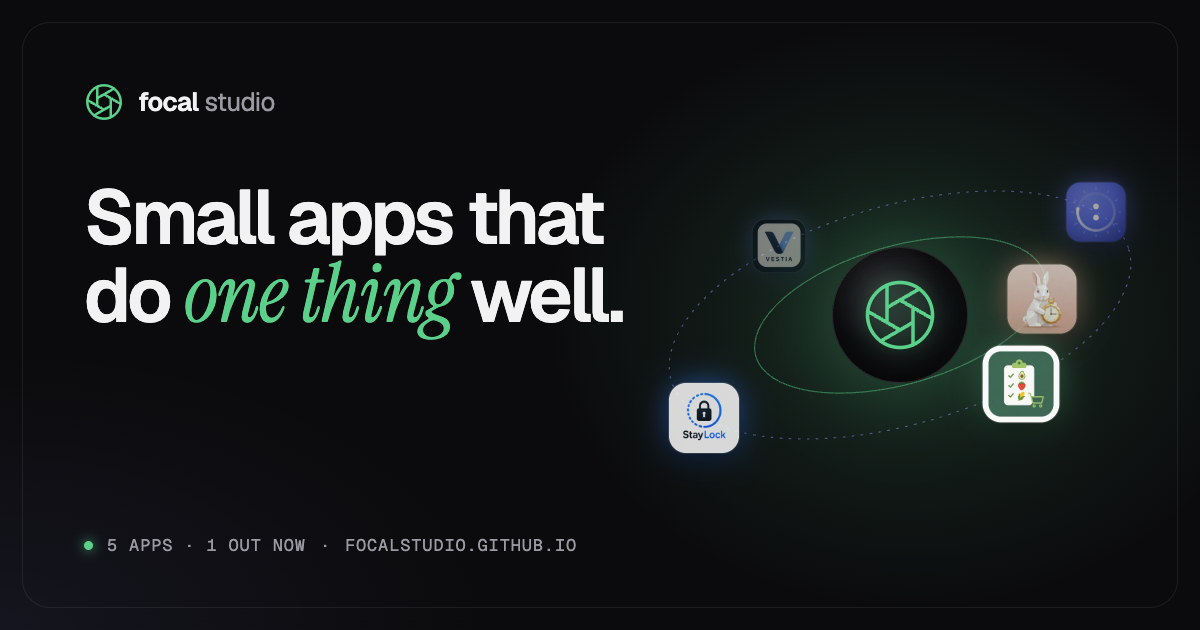
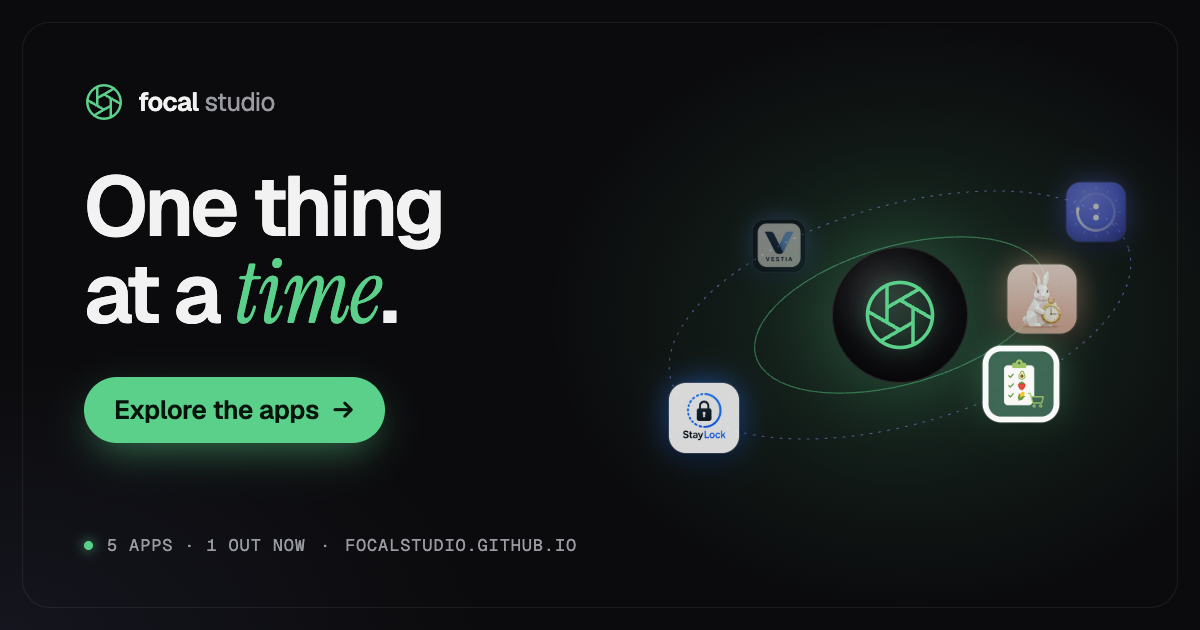
feat: "One thing at a time" headline, OG site_name and CTA
- hero + social image: "One thing at a time." (one task for you, one
  job per app, one app at a time for the studio)
- og-image gains an "Explore the apps" call to action
- og:site_name on every page with OG tags

Changed region(s): [[0.0617, 0.2714, 0.5242, 0.5429], [0.0617, 0.573, 0.3392, 0.754]]

diff --git a/assets/brand/og-image.html b/assets/brand/og-image.html
@@ -24,8 +24,11 @@
     .brand { display: flex; align-items: center; gap: 14px; font-size: 26px; font-weight: 600; letter-spacing: -0.02em; }
     .brand svg { width: 40px; height: 40px; color: var(--accent); }
     .brand span span { color: var(--muted); font-weight: 400; }
-    h1 { margin-top: 58px; font-size: 76px; line-height: 0.98; font-weight: 600; letter-spacing: -0.045em; }
+    h1 { margin-top: 44px; font-size: 84px; line-height: 0.98; font-weight: 600; letter-spacing: -0.045em; }
     .serif { font-family: "Instrument Serif", Georgia, serif; font-style: italic; font-weight: 400; color: var(--accent); letter-spacing: -0.01em; font-size: 1.08em; }
+    .cta { display: inline-flex; align-items: center; gap: 12px; margin-top: 40px; padding: 16px 30px;
+      border-radius: 999px; background: var(--accent); color: #06150C; font-size: 26px; font-weight: 600;
+      letter-spacing: -0.01em; box-shadow: 0 14px 40px -10px rgba(91, 208, 138, 0.55); }
     .meta { position: absolute; left: 84px; bottom: 74px; display: flex; gap: 14px; align-items: center;
       font-family: "Geist Mono", monospace; font-size: 17px; letter-spacing: 0.05em; text-transform: uppercase; color: var(--muted); }
     .dot { width: 9px; height: 9px; border-radius: 50%; background: var(--accent); box-shadow: 0 0 12px var(--accent); }
@@ -47,7 +50,8 @@
       <svg viewBox="0 0 24 24" fill="none" stroke="currentColor" stroke-width="1.5" stroke-linecap="round" stroke-linejoin="round"><circle cx="12" cy="12" r="10"/><path d="M12 7.4L21.94 13.14M15.98 9.7L15.98 21.17M15.98 14.3L6.05 20.04M12 16.6L2.06 10.86M8.02 14.3L8.02 2.83M8.02 9.7L17.95 3.96"/></svg>
       <span>focal<span> studio</span></span>
     </div>
-    <h1>Small apps that do <span class="serif">one thing</span> well.</h1>
+    <h1>One thing<br />at a <span class="serif">time</span>.</h1>
+    <div class="cta">Explore the apps <span aria-hidden="true">→</span></div>
   </div>
   <div class="meta"><span class="dot"></span><span id="count">Independent app studio</span><span>·</span><span>focalstudio.github.io</span></div>
 

diff --git a/index.html b/index.html
@@ -8,6 +8,7 @@
   <meta name="theme-color" content="#0B0B0D" />
   <!-- Open Graph / Twitter -->
   <meta property="og:type" content="website" />
+  <meta property="og:site_name" content="Focal Studio" />
   <meta property="og:url" content="https://focalstudio.github.io/" />
   <meta property="og:title" content="Focal Studio — Independent App Studio" />
   <meta property="og:description" content="Focal Studio is an independent app studio making small, focused, privacy-first apps for iPhone and Android." />
@@ -18,7 +19,7 @@
   <meta property="og:image" content="https://focalstudio.github.io/assets/brand/og-image.png" />
   <meta property="og:image:width" content="1200" />
   <meta property="og:image:height" content="630" />
-  <meta property="og:image:alt" content="Focal Studio — small apps that do one thing well. App icons orbiting the aperture logo." />
+  <meta property="og:image:alt" content="Focal Studio — one thing at a time. App icons orbiting the aperture logo." />
   <meta property="twitter:image" content="https://focalstudio.github.io/assets/brand/og-image.png" />
   <link rel="icon" href="assets/brand/aperture.svg" type="image/svg+xml" />
   <link rel="preconnect" href="https://fonts.googleapis.com" />
@@ -73,12 +74,12 @@
             <p class="eyebrow"><span class="live-dot" aria-hidden="true"></span>Independent app studio</p>
 
             <h1 class="hero-title">
-              Small apps that do <span class="serif accent">one thing</span> well.
+              One thing <span style="white-space:nowrap">at a <span class="serif accent">time</span>.</span>
             </h1>
 
             <p class="hero-subtitle">
-              Focused tools built around privacy-first principles.
-              No accounts. No tracking. Just software that works.
+              You focus on one task. Each app does one job.
+              And we build them one at a time, until they’re right.
             </p>
 
             <div class="hero-actions">

diff --git a/apps.html b/apps.html
@@ -8,6 +8,7 @@
   <meta name="theme-color" content="#0B0B0D" />
   <!-- Open Graph / Twitter -->
   <meta property="og:type" content="website" />
+  <meta property="og:site_name" content="Focal Studio" />
   <meta property="og:url" content="https://focalstudio.github.io/apps.html" />
   <meta property="og:title" content="Apps — Focal Studio" />
   <meta property="og:description" content="The Focal Studio catalog: privacy-first apps for iPhone and Android — out now, in development, and coming soon." />
@@ -18,7 +19,7 @@
   <meta property="og:image" content="https://focalstudio.github.io/assets/brand/og-image.png" />
   <meta property="og:image:width" content="1200" />
   <meta property="og:image:height" content="630" />
-  <meta property="og:image:alt" content="Focal Studio — small apps that do one thing well. App icons orbiting the aperture logo." />
+  <meta property="og:image:alt" content="Focal Studio — one thing at a time. App icons orbiting the aperture logo." />
   <meta property="twitter:image" content="https://focalstudio.github.io/assets/brand/og-image.png" />
   <link rel="icon" href="assets/brand/aperture.svg" type="image/svg+xml" />
   <link rel="preconnect" href="https://fonts.googleapis.com" />

diff --git a/app.html b/app.html
@@ -8,6 +8,7 @@
   <meta name="theme-color" content="#0B0B0D" />
   <!-- Open Graph / Twitter -->
   <meta property="og:type" content="website" />
+  <meta property="og:site_name" content="Focal Studio" />
   <meta property="og:url" content="https://focalstudio.github.io/app.html" />
   <meta property="og:title" content="App — Focal Studio" />
   <meta property="og:description" content="A Focal Studio app — privacy-first, no tracking, built for iPhone and Android." />
@@ -18,7 +19,7 @@
   <meta property="og:image" content="https://focalstudio.github.io/assets/brand/og-image.png" />
   <meta property="og:image:width" content="1200" />
   <meta property="og:image:height" content="630" />
-  <meta property="og:image:alt" content="Focal Studio — small apps that do one thing well. App icons orbiting the aperture logo." />
+  <meta property="og:image:alt" content="Focal Studio — one thing at a time. App icons orbiting the aperture logo." />
   <meta property="twitter:image" content="https://focalstudio.github.io/assets/brand/og-image.png" />
   <link rel="icon" href="assets/brand/aperture.svg" type="image/svg+xml" />
   <link rel="preconnect" href="https://fonts.googleapis.com" />

diff --git a/contact.html b/contact.html
@@ -8,6 +8,7 @@
   <meta name="theme-color" content="#0B0B0D" />
   <!-- Open Graph / Twitter -->
   <meta property="og:type" content="website" />
+  <meta property="og:site_name" content="Focal Studio" />
   <meta property="og:url" content="https://focalstudio.github.io/contact.html" />
   <meta property="og:title" content="Contact — Focal Studio" />
   <meta property="og:description" content="Get in touch with Focal Studio, an independent app studio." />
@@ -18,7 +19,7 @@
   <meta property="og:image" content="https://focalstudio.github.io/assets/brand/og-image.png" />
   <meta property="og:image:width" content="1200" />
   <meta property="og:image:height" content="630" />
-  <meta property="og:image:alt" content="Focal Studio — small apps that do one thing well. App icons orbiting the aperture logo." />
+  <meta property="og:image:alt" content="Focal Studio — one thing at a time. App icons orbiting the aperture logo." />
   <meta property="twitter:image" content="https://focalstudio.github.io/assets/brand/og-image.png" />
   <link rel="icon" href="assets/brand/aperture.svg" type="image/svg+xml" />
   <link rel="preconnect" href="https://fonts.googleapis.com" />

diff --git a/app-wildfocus.html b/app-wildfocus.html
@@ -8,6 +8,7 @@
   <!-- App pages are now generated from assets/apps.json; this keeps old links working.
        Link-preview tags stay here because preview bots read this page and don't follow the refresh. -->
   <meta property="og:type" content="website" />
+  <meta property="og:site_name" content="Focal Studio" />
   <meta property="og:url" content="https://focalstudio.github.io/app.html?app=wildfocus" />
   <meta property="og:title" content="WildFocus — Focal Studio" />
   <meta property="og:description" content="Turn your focus sessions into a pet collection. Beat procrastination one timer at a time." />

diff --git a/CHANGELOG.md b/CHANGELOG.md
@@ -4,6 +4,13 @@ All notable changes to this repository will be documented in this file.
 
 ## 2026-10-06
 
+### Changed
+- New headline: **"One thing at a time."** It means you focus on one task, each app does one job, and the studio builds one app at a time. The hero subtitle now says so, and drops "No accounts. No tracking.", which isn't true of every app.
+- The social preview image carries the new headline and an "Explore the apps →" call to action.
+
+### Fixed
+- `og:site_name` ("Focal Studio") added to every page with Open Graph tags (opengraph.xyz warning).
+
 ### Added
 - Social preview image (`assets/brand/og-image.png`, 1200×630) with `og:image` / `twitter:image` on every page. It's generated from `og-image.html` by `scripts/render-og.mjs`, which reads `apps.json` (#17).
 - App pages for MealCart, Vestia and Tick: a description and features sourced from each app's repo, plus MealCart's problem/solution (#18). Coming-soon pages now title their features "What's coming" and always keep the Notify-me panel.
